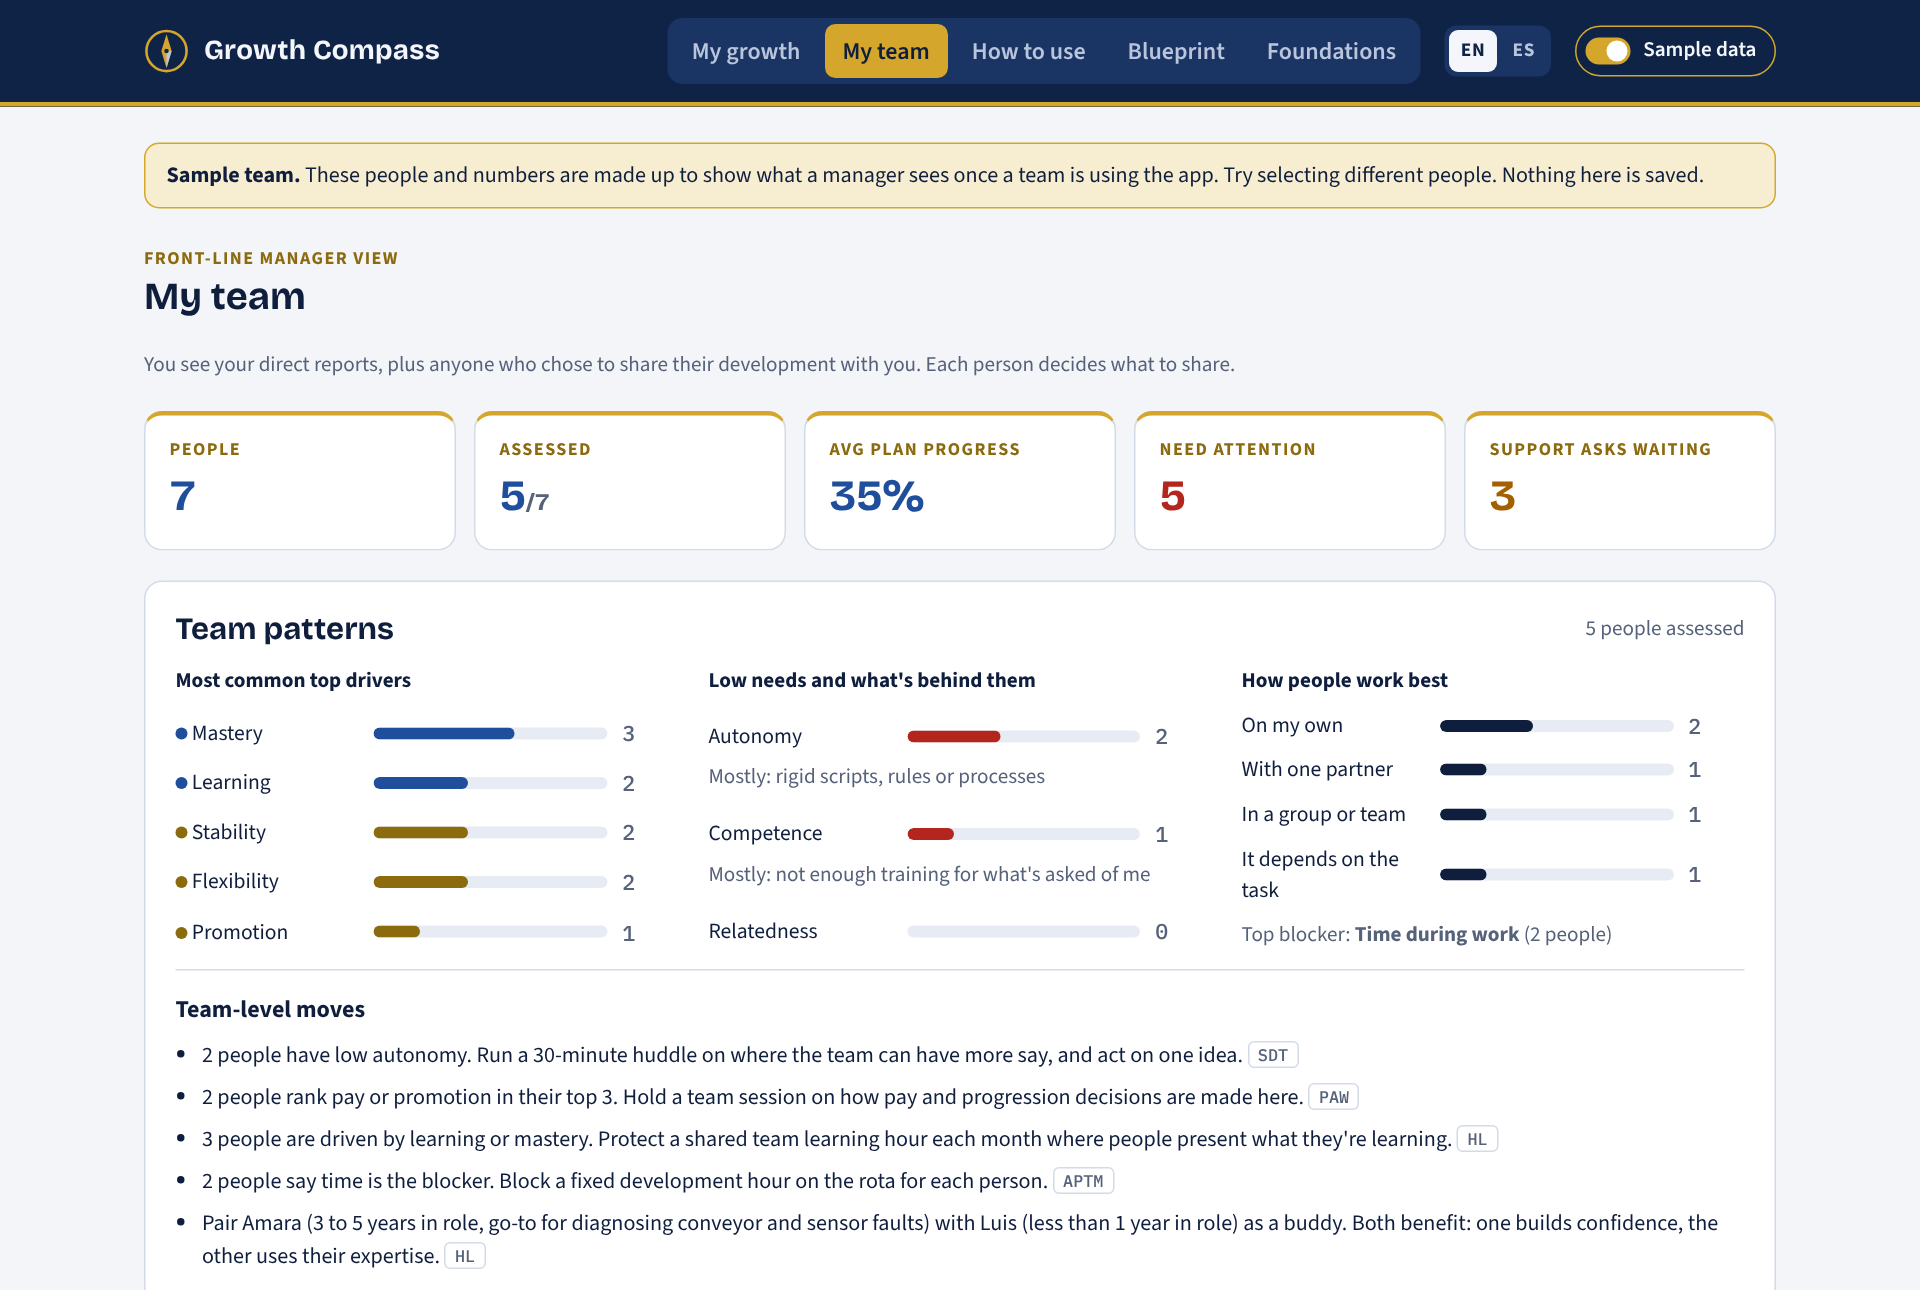
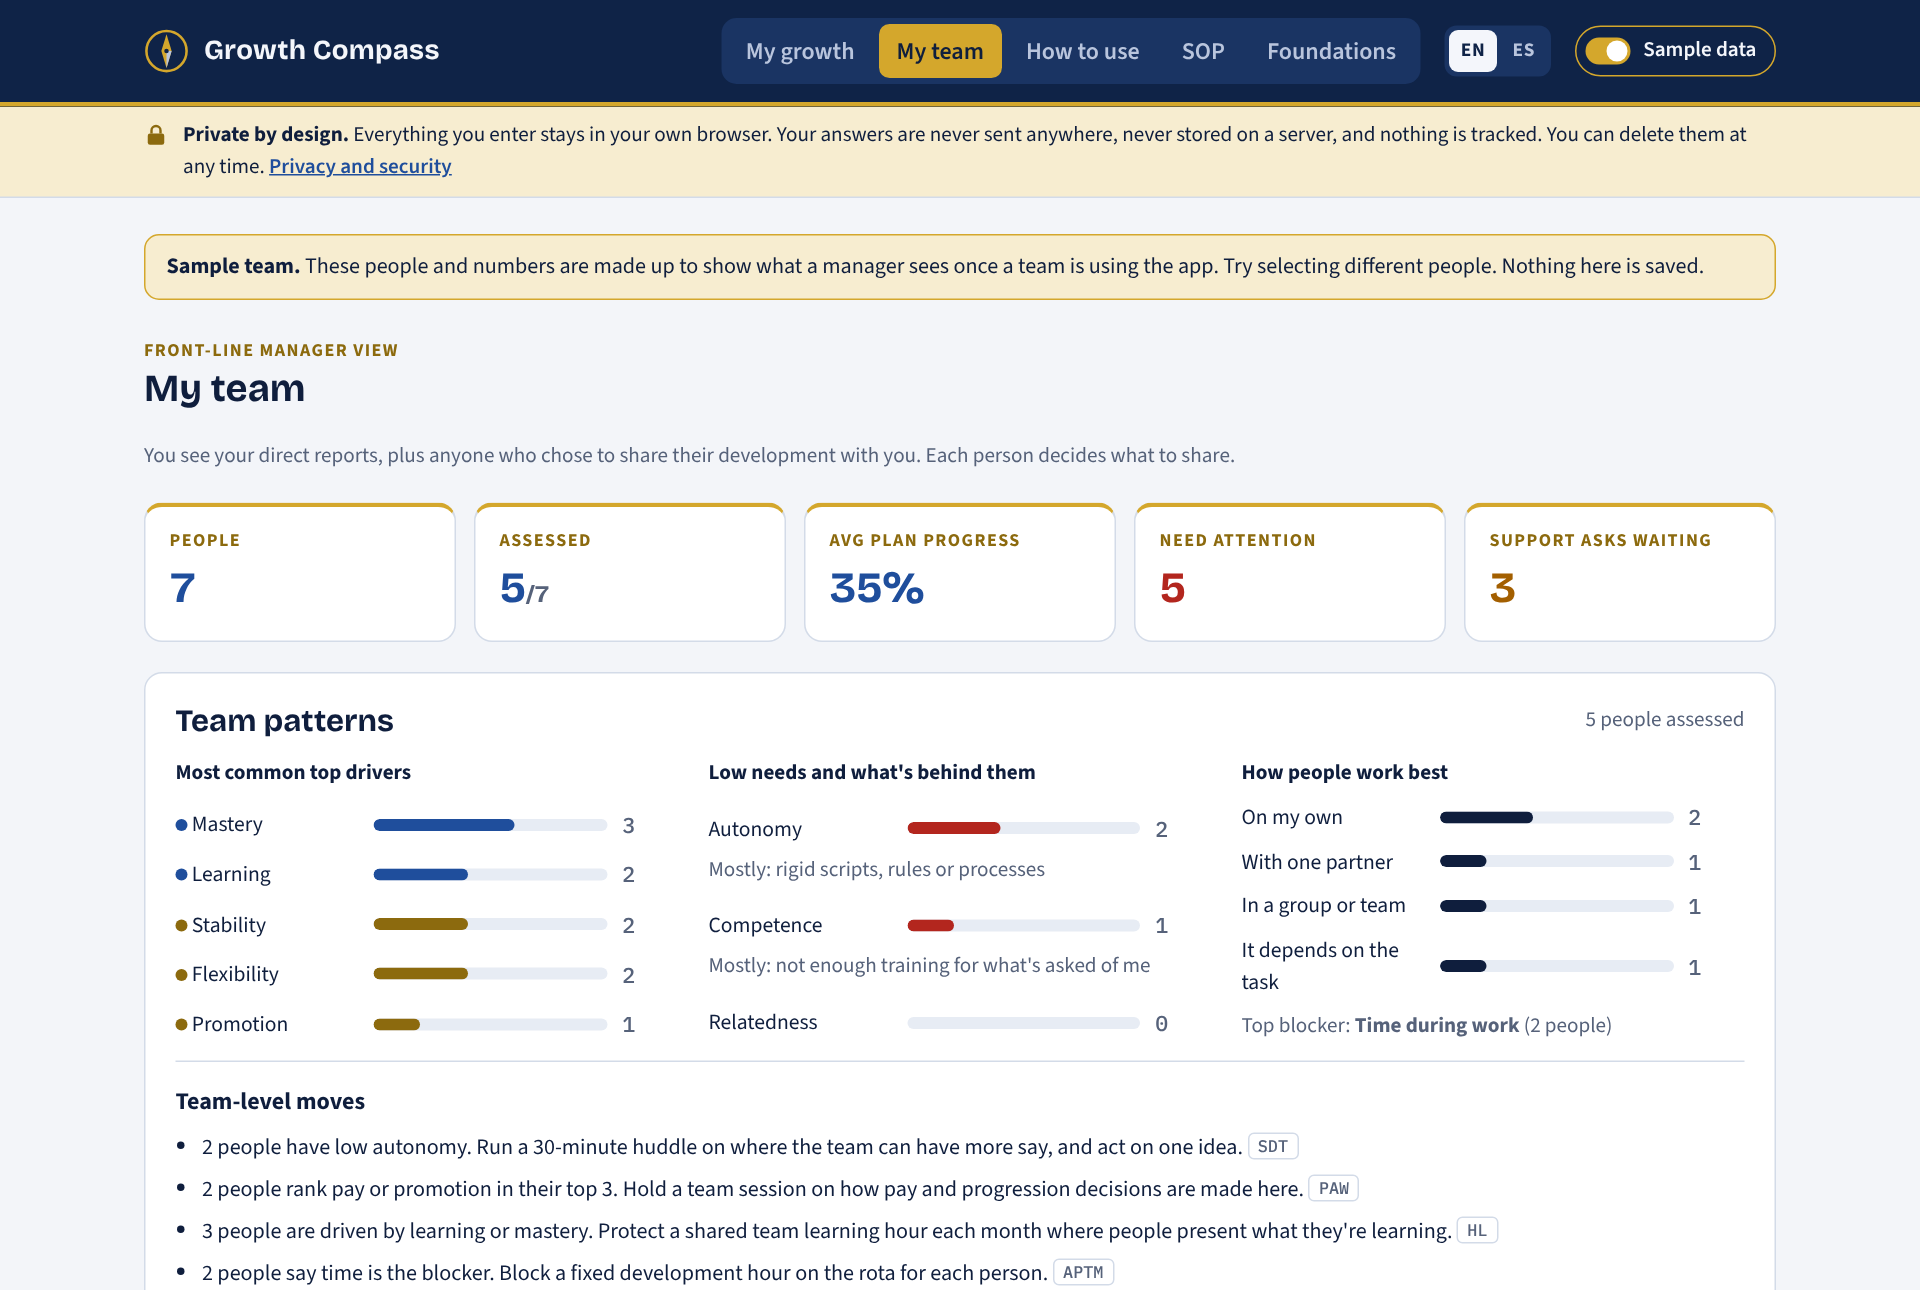
Make the privacy promise visible on every page
A "Private by design" bar under the menu on every page, a privacy line
next to "Start my assessment", and an "In short" summary at the top of
the Privacy and security page, each matched to the public demo or the
team app, in English and Spanish.

Claude-Session: https://claude.ai/code/session_01Uujaq66ZKBCDtqxri7RNsD

diff --git a/index.html b/index.html
@@ -295,6 +295,15 @@ h1,h2{color:var(--ink)}
 .foot b{color:var(--on-navy)} .foot a{color:var(--gold)}
 .btn.danger{background:var(--crit);border-color:var(--crit);color:#FFFFFF}
 .foot a{text-decoration:underline}
+.privbar{background:var(--gold-soft);border-bottom:1px solid var(--line);color:var(--ink);font-size:.88rem}
+.privbar .wrap{display:flex;gap:10px;align-items:flex-start;padding-block:9px}
+.privbar .lock,.intro-lock .lock,.inshort .lock{flex:none;color:var(--ex);margin-top:2px}
+.privbar a,.intro-lock a{color:var(--in);font-weight:600;white-space:nowrap}
+.intro-lock{display:flex;gap:8px;align-items:flex-start;color:var(--on-navy)}
+.intro .intro-lock a{color:var(--gold)} .intro .intro-lock .lock{color:var(--gold)}
+.inshort{border:2px solid var(--gold);display:grid;gap:10px}
+.inshort h2{display:flex;gap:8px;align-items:center}
+.inshort ul{margin:0;padding-left:1.2em;display:grid;gap:6px;max-width:72ch}
 .toast{position:fixed;left:50%;transform:translateX(-50%);bottom:calc(20px + env(safe-area-inset-bottom,0px));background:var(--navy);color:var(--on-navy);border:1px solid var(--gold);padding:8px 16px;border-radius:8px;font-weight:600;z-index:20}
 </style>
 </head>
@@ -316,6 +325,7 @@ h1,h2{color:var(--ink)}
     <button class="demo-tog" id="demo-tog" data-action="demo" aria-pressed="false"><span class="sw" aria-hidden="true"></span>Sample data</button>
   </div>
 </header>
+<div class="privbar" id="privbar"></div>
 <main class="wrap" id="app"></main>
 <footer class="foot" id="foot"></footer>
 <div class="toast" id="toast" hidden></div>
@@ -664,7 +674,7 @@ const ES = {
   "Couldn't save. Check your connection and try again.":"No se pudo guardar. Revisa tu conexión e inténtalo de nuevo.","Live updates stopped. Reload the page to reconnect.":"Se detuvieron las actualizaciones en vivo. Recarga la página para reconectar.","Pick up to 4.":"Elige hasta 4.","SKILLS AND CERTIFICATIONS":"HABILIDADES Y CERTIFICACIONES","Blueprint":"Plan maestro","SOP":"Procedimiento","A short version of the Blueprint. Turn on":"Una versión breve del Plan maestro. Activa",
   "You decide":"Tú decides","Who can see my development":"Quién puede ver mi desarrollo","Your full record is private to you. Only the people below can see it, and only the parts you choose.":"Tu registro completo es privado. Solo las personas de abajo pueden verlo, y solo las partes que elijas.",
   "My direct manager":"Mi líder directo","Not set":"Sin definir","Sees your full development record (profile, plan, skills passport and check-ins), so they can support you.":"Ve tu registro de desarrollo completo (perfil, plan, pasaporte de habilidades y seguimientos) para poder apoyarte.","Remove":"Quitar",
-  "Also shared with":"También compartido con","No one else. You can share with a mentor, another manager or HR.":"Nadie más. Puedes compartir con un mentor, otro líder o RR. HH.","Stop sharing":"Dejar de compartir","Everyone else sees nothing. You can change this at any time.":"Nadie más ve nada. Puedes cambiarlo cuando quieras.","How your information is stored":"Cómo se guarda tu información",
+  "Also shared with":"También compartido con","No one else. You can share with a mentor, another manager or HR.":"Nadie más. Puedes compartir con un mentor, otro líder o RR. HH.","Stop sharing":"Dejar de compartir","Everyone else sees nothing. You can change this at any time.":"Nadie más ve nada. Puedes cambiarlo cuando quieras.","How your information is stored":"Cómo se guarda tu información","Your answers stay in your own browser. They are never sent anywhere or tracked.":"Tus respuestas se quedan en tu propio navegador. Nunca se envían a ningún lado ni se rastrean.","Your answers are saved privately to your own account. Only you, and the people you choose, can see them.":"Tus respuestas se guardan de forma privada en tu propia cuenta. Solo tú, y las personas que elijas, pueden verlas.",
   "Search by name":"Buscar por nombre","Search for your manager":"Busca a tu líder","Search for someone to share with":"Busca a alguien con quien compartir","Sharing updated":"Se actualizó con quién compartes","No one found. Check the spelling, or ask them to open this page first.":"No se encontró a nadie. Revisa cómo está escrito o pídele que abra esta página primero.",
   "In the live app you search for colleagues by name here. Sample data uses made-up people.":"En la app real aquí buscas a tus compañeros por nombre. Los datos de ejemplo usan personas ficticias.",
   "Motivation profile":"Perfil de motivación","Development plan":"Plan de desarrollo","Check-ins":"Seguimientos",
@@ -1484,6 +1494,7 @@ function render(force){
   $("#demo-tog").setAttribute("aria-pressed", String(S.demo));
   $("#app").innerHTML = S.view === "me" ? renderMe() : S.view === "team" ? renderTeam() : S.view === "guide" ? renderGuide() : S.view === "blueprint" ? renderBlueprint() : S.view === "privacy" ? renderPrivacy() : renderFoundations();
   translateDom($("#app"));
+  { const pp = privacyPromise(); $("#privbar").innerHTML = S.view === "privacy" ? "" : `<div class="wrap">${LOCK}<span><b>${pp.head}</b> ${pp.text} <a href="#privacy" data-action="view" data-v="privacy">${pp.link}</a></span></div>`; $("#privbar").hidden = S.view === "privacy"; }
   $("#foot").innerHTML = LANG === "es"
     ? `<div class="wrap"><p><b>Growth Compass</b> por Karen Tinoco · © 2026 Karen Tinoco. Licencia PolyForm Noncommercial 1.0.0: puedes verla, usarla y adaptarla con fines no comerciales. Uso comercial solo con permiso. <a href="https://polyformproject.org/licenses/noncommercial/1.0.0/" target="_blank" rel="noopener">Licencia</a> · <a href="#privacy" data-action="view" data-v="privacy">Privacidad y seguridad</a></p>
        <p>Diseñada y dirigida por Karen Tinoco; implementada con Claude Code como programador de IA en pareja. Las personas y los datos de la demo son ficticios. Basada en investigación publicada; sin afiliación con los autores ni las editoriales de las obras citadas.</p></div>`
@@ -1495,7 +1506,7 @@ document.addEventListener("focusout", () => setTimeout(() => { if (pendingRender
 
 function banner(){
   if (S.demo) return "";
-  if (!S.live) return `<div class="notice"><b>Saved on this device only.</b> Your answers stay in this browser. When the app is shared through claude.ai, plans are shared with your manager and team.</div>`;
+  if (!S.live) return "";   // the "Private by design" bar already explains where answers are saved
   if (S.readOnly) return `<div class="notice"><b>View only.</b> You can read plans here but not save. Ask the page owner for Contributor access.</div>`;
   return "";
 }
@@ -1529,6 +1540,7 @@ function renderIntro(outdated){
       <h1>Your growth, driven by you, built around what actually motivates you</h1>
       <p class="muted">The assessment looks at <i>why</i> you put in effort, which needs your job meets and what's behind any gaps, how you work best in your own words, which rewards matter to you, and what you believe about your own growth. It branches on your role type and time in role, then builds a 90-day plan with measurable goals. You drive it; your manager supports it. The skills you build are yours to keep, wherever you work next.</p>
       <div class="row"><button class="btn" data-action="start">Start my assessment</button><button class="btn ghost" data-action="demo">See it with sample data</button><span class="muted small">10 short steps · about 15 minutes · retake any time</span></div>
+      <p class="small intro-lock">${LOCK} <span>${S.live ? "Your answers are saved privately to your own account. Only you, and the people you choose, can see them." : "Your answers stay in your own browser. They are never sent anywhere or tracked."} <a href="#privacy" data-action="view" data-v="privacy">Privacy and security</a></span></p>
       <p class="muted small">A development tool, not a test. Answers are for growth conversations, never for pay, discipline or hiring decisions. See <a href="#" data-action="view" data-v="science">Foundations</a> for the research behind it.</p>
     </div>
     <div class="tree" aria-label="How the assessment branches">
@@ -2079,6 +2091,8 @@ const PRIVACY = {
       ["How your answers may be used", [
         "Only for development conversations. Never for hiring, pay, ratings, promotion or discipline decisions.",
         "If you have any concern, talk to the person who runs the programme (usually HR). You can also delete your data below at any time."]]],
+    shortDemo:["<b>Your answers stay on your device.</b> In this demo, everything you enter is saved only in your own web browser.","<b>Nothing is sent anywhere.</b> No server stores your answers, and they are never sent to Claude or any other AI service.","<b>No tracking.</b> No ads, no analytics, no profiling.","<b>No account needed,</b> and nobody else, including the app's creator, can see what you enter.","<b>You stay in control.</b> Delete your data at any time with <b>Delete my data</b> below, or by clearing your browser data."],
+    shortTeam:["<b>Your record is private.</b> It's saved to your own private section, tied to your claude.ai account.","<b>Only you, and the people you choose, can see it.</b> Not other employees, and not the app's owner.","<b>Never sent to AI and never tracked.</b> No ads, no analytics.","<b>Used only for your development,</b> never for pay, hiring, ratings or discipline.","<b>You stay in control.</b> Change who sees it, or delete everything, at any time."],
     delTitle:"Delete my data", delLead:"Removes your assessment, plan, skills passport, check-ins, sharing settings and any private notes you wrote. This can't be undone.",
     delBtn:"Delete my data", delSure:"Are you sure? Everything you entered will be permanently deleted.", delYes:"Yes, delete everything", delNo:"Cancel",
     delDemo:"You're viewing sample data, which is never saved, so there is nothing of yours to delete.", delDone:"Your data was deleted.", delFail:"Couldn't delete everything. Check your connection and try again."},
@@ -2107,15 +2121,29 @@ const PRIVACY = {
       ["Cómo pueden usarse tus respuestas", [
         "Solo para conversaciones de desarrollo. Nunca para decisiones de contratación, salario, calificaciones, ascensos ni medidas disciplinarias.",
         "Si tienes cualquier inquietud, habla con quien dirige el programa (normalmente RR. HH.). También puedes borrar tus datos aquí abajo cuando quieras."]]],
+    shortDemo:["<b>Tus respuestas se quedan en tu dispositivo.</b> En esta demo, todo lo que ingresas se guarda solo en tu propio navegador.","<b>No se envía nada a ningún lado.</b> Ningún servidor guarda tus respuestas, y nunca se envían a Claude ni a ningún otro servicio de IA.","<b>Sin rastreo.</b> Sin anuncios, sin analítica, sin perfiles.","<b>No necesitas una cuenta,</b> y nadie más, ni siquiera la persona que creó la app, puede ver lo que ingresas.","<b>Tú tienes el control.</b> Borra tus datos cuando quieras con <b>Borrar mis datos</b> aquí abajo, o borrando los datos de tu navegador."],
+    shortTeam:["<b>Tu registro es privado.</b> Se guarda en tu propia sección privada, vinculada a tu cuenta de claude.ai.","<b>Solo tú, y las personas que elijas, pueden verlo.</b> Ni otros colaboradores ni la persona dueña de la app.","<b>Nunca se envía a IA ni se rastrea.</b> Sin anuncios, sin analítica.","<b>Se usa solo para tu desarrollo,</b> nunca para salario, contratación, calificaciones ni medidas disciplinarias.","<b>Tú tienes el control.</b> Cambia quién lo ve, o bórralo todo, cuando quieras."],
     delTitle:"Borrar mis datos", delLead:"Elimina tu evaluación, plan, pasaporte de habilidades, seguimientos, configuración de privacidad y cualquier nota privada que hayas escrito. No se puede deshacer.",
     delBtn:"Borrar mis datos", delSure:"¿Seguro? Todo lo que ingresaste se eliminará de forma permanente.", delYes:"Sí, borrar todo", delNo:"Cancelar",
     delDemo:"Estás viendo datos de ejemplo, que nunca se guardan, así que no hay nada tuyo que borrar.", delDone:"Se borraron tus datos.", delFail:"No se pudo borrar todo. Revisa tu conexión e inténtalo de nuevo."}
 };
+const LOCK = `<svg class="lock" width="16" height="16" viewBox="0 0 16 16" aria-hidden="true"><rect x="2.5" y="7" width="11" height="7.5" rx="1.5" fill="currentColor"/><path d="M5 7V5a3 3 0 0 1 6 0v2" fill="none" stroke="currentColor" stroke-width="1.6"/></svg>`;
+// Short privacy promise, matched to where the person is using the app
+function privacyPromise(){
+  const es = LANG === "es";
+  if (!S.live) return es
+    ? {head:"Privada por diseño.", text:"Todo lo que ingresas se queda en tu propio navegador. Tus respuestas nunca se envían a ningún lado, no se guardan en un servidor y no hay rastreo. Puedes borrarlas cuando quieras.", link:"Privacidad y seguridad"}
+    : {head:"Private by design.", text:"Everything you enter stays in your own browser. Your answers are never sent anywhere, never stored on a server, and nothing is tracked. You can delete them at any time.", link:"Privacy and security"};
+  return es
+    ? {head:"Privada por diseño.", text:"Tus respuestas se guardan en tu propia sección privada. Solo tú, y las personas que elijas, pueden verlas. Nunca se envían a servicios de IA ni se rastrean.", link:"Privacidad y seguridad"}
+    : {head:"Private by design.", text:"Your answers are saved to your own private section. Only you, and the people you choose, can see them. They are never sent to AI services or tracked.", link:"Privacy and security"};
+}
 function renderPrivacy(){
   const d = PRIVACY[LANG] || PRIVACY.en;
   const hasData = S.demo ? false : !!(S.myDoc.assessment || (S.myDoc.skills || []).length || (S.myDoc.checkins || []).length || Object.keys(S.notes).length);
   return `<div data-notr class="stack" style="gap:20px">
     <section class="card bp-hero"><span class="eyebrow">${d.eyebrow}</span><h1>${d.title}</h1><p>${d.lead}</p></section>
+    <section class="card inshort"><h2>${LOCK} ${LANG === "es" ? "En resumen" : "In short"}</h2><ul>${(S.live ? d.shortTeam : d.shortDemo).map(x => `<li>${x}</li>`).join("")}</ul></section>
     <article class="card bp">${d.sections.map(([h, items]) => `<section><h2>${h}</h2><ul>${items.map(x => `<li>${x}</li>`).join("")}</ul></section>`).join("")}</article>
     <section class="card stack" style="gap:10px"><h2>${d.delTitle}</h2><p class="small muted" style="max-width:68ch">${d.delLead}</p>
       ${S.demo ? `<p class="small">${d.delDemo}</p>`
